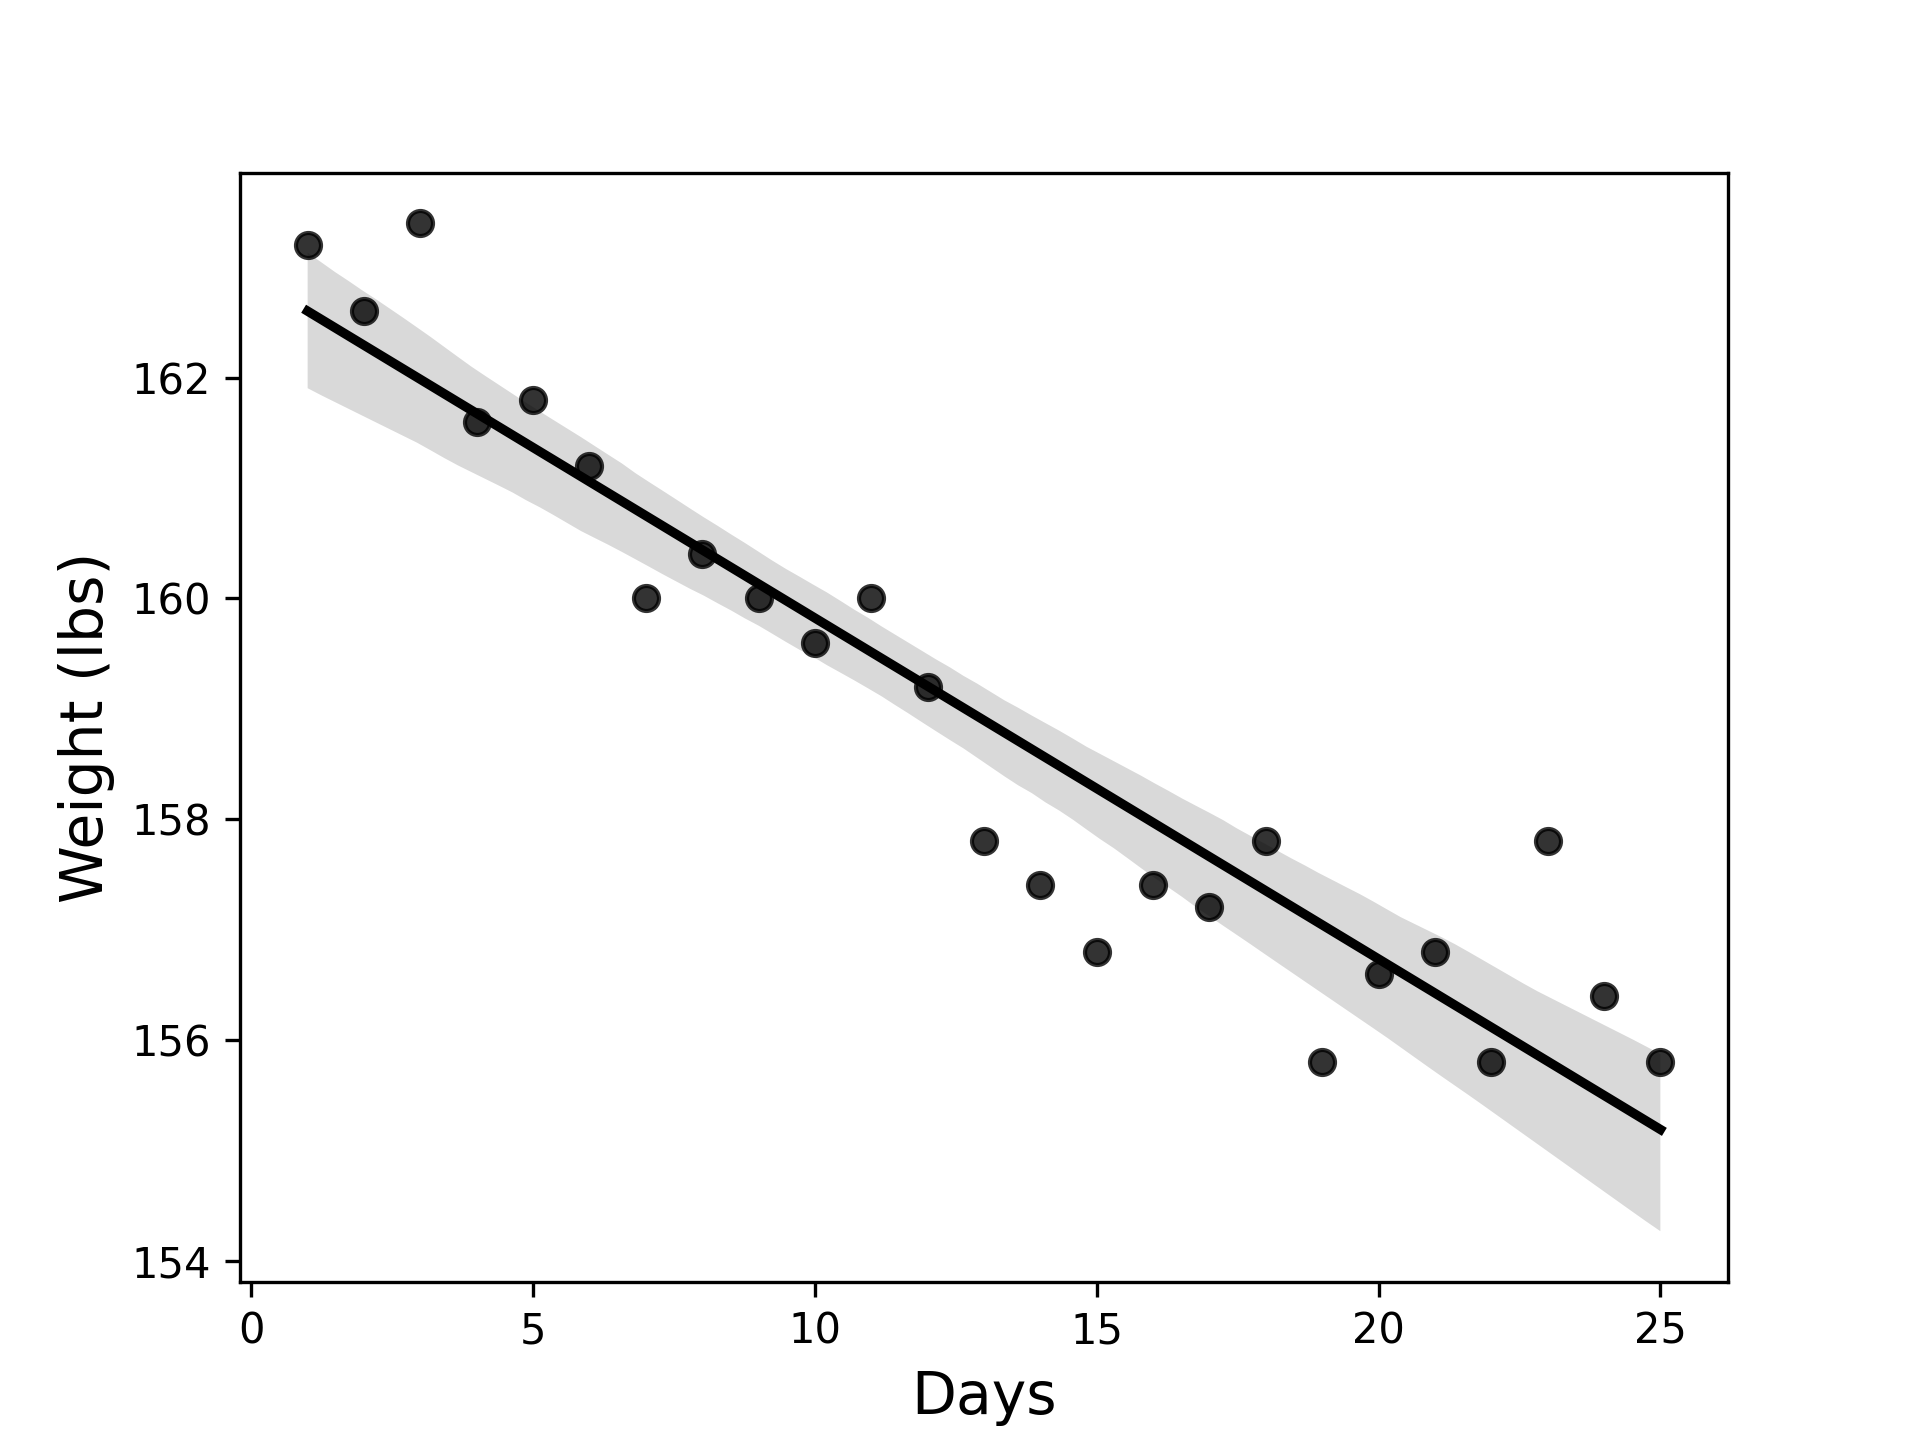
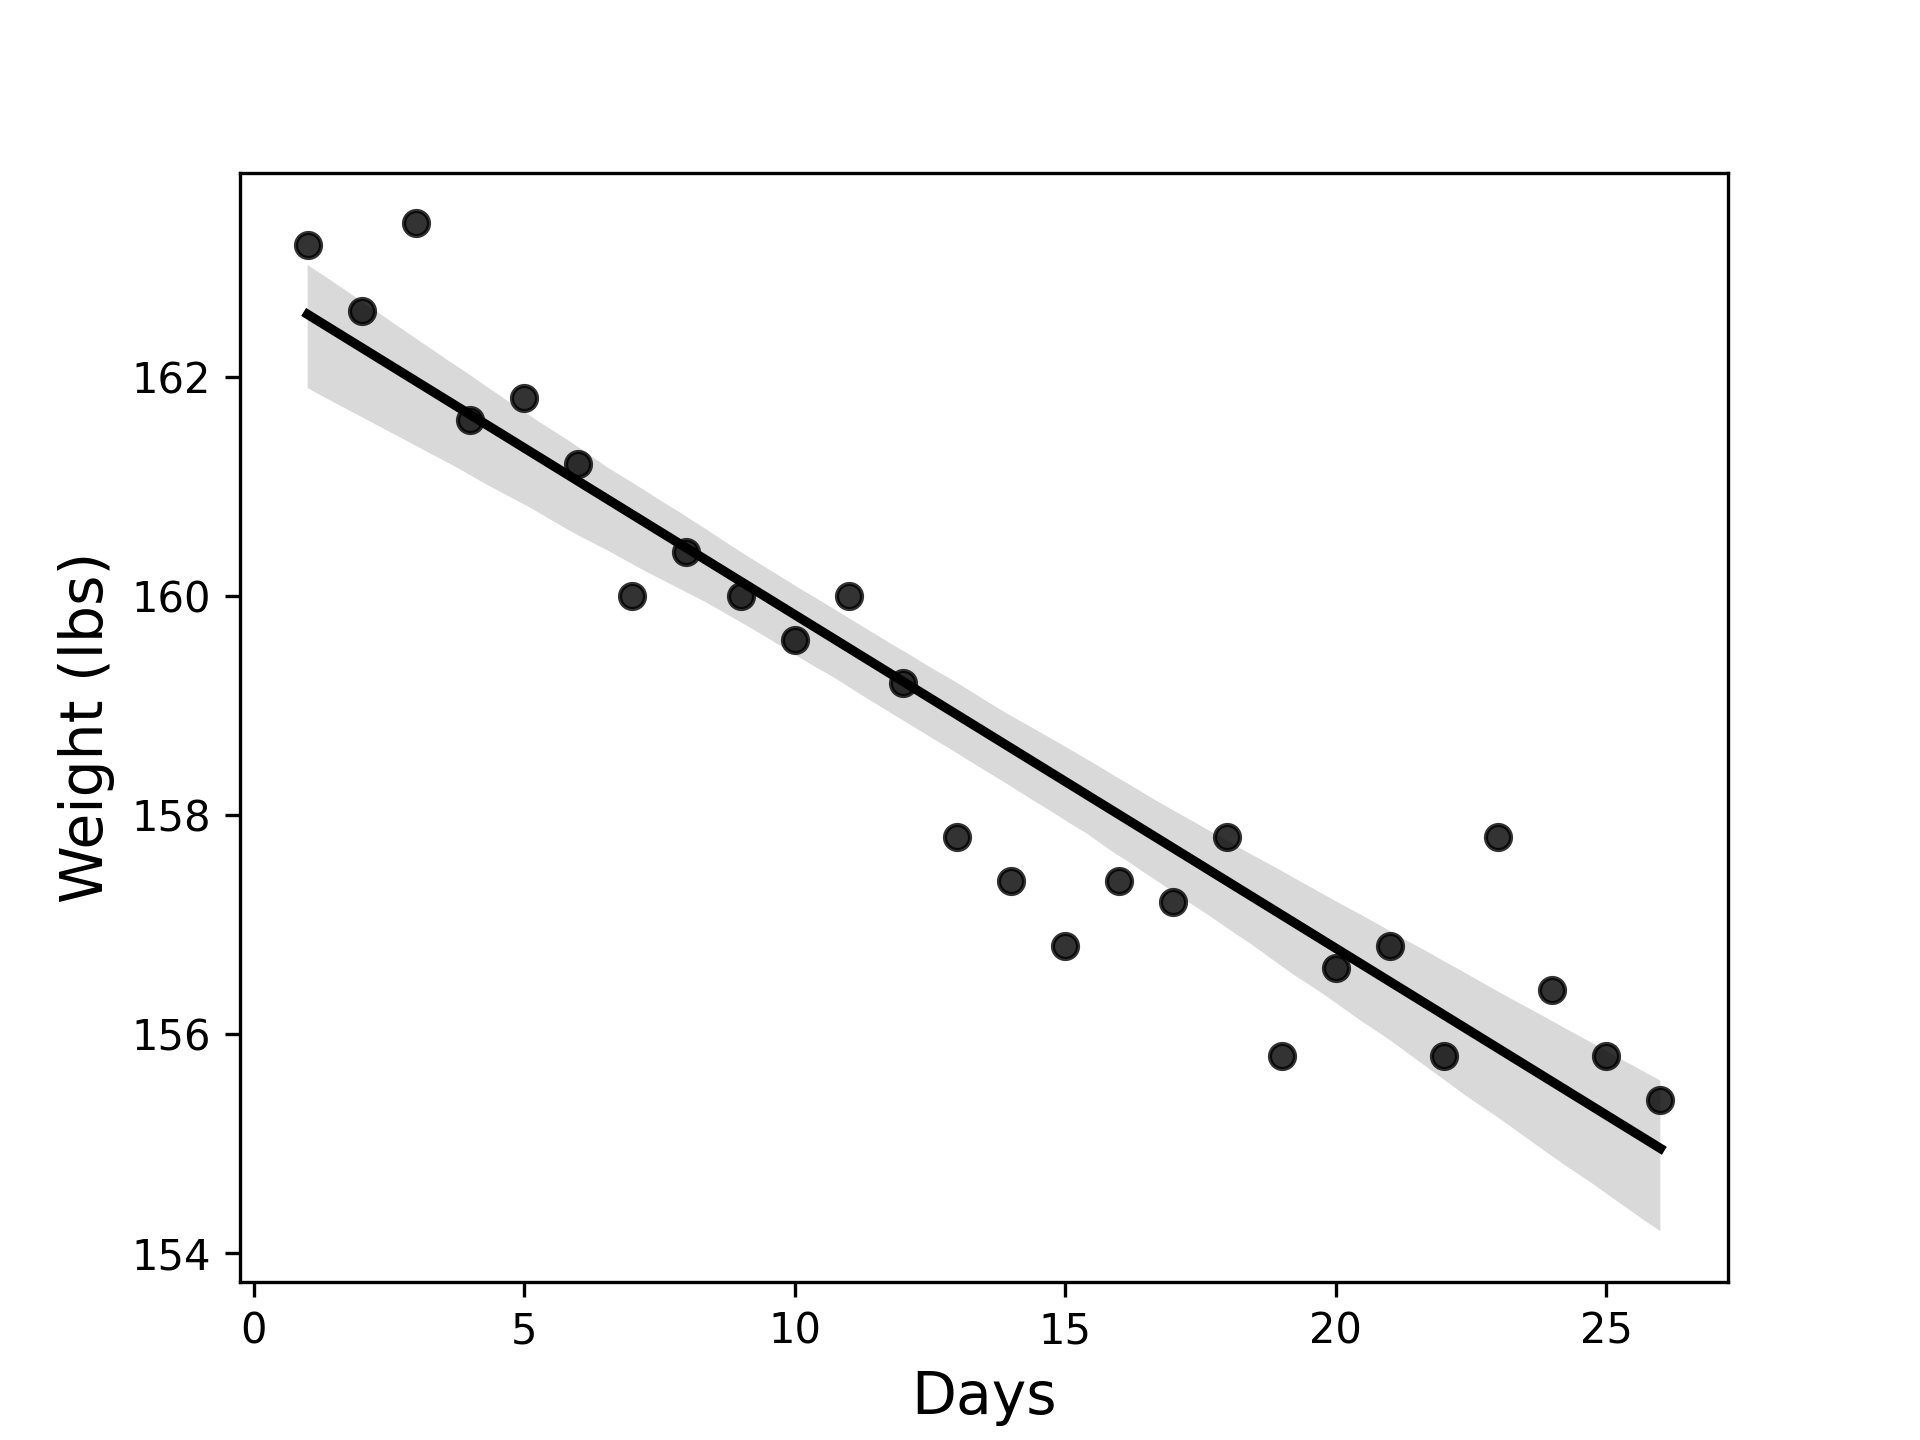
Updated weight.py and weight.png

diff --git a/Weight.py b/Weight.py
@@ -6,9 +6,9 @@ import seaborn as sns
 
 # Creates an array of elapsed days and assigns it to days_elapsed
 days_elapsed = np.array([1, 2, 3 ,4, 5, 6, 7, 8, 9, 10,11,12,13, 14,15,16,17,18,
-                         19, 20,21,22,23,24,25]).reshape(-1,1)
+                         19, 20,21,22,23,24,25,26]).reshape(-1,1)
 weight = np.array([163.2, 162.6, 163.4, 161.6, 161.8, 161.2, 160.0, 160.4, 160.0, 159.6,160.0,159.2,157.8, 157.4,156.8,157.4,
-                   157.2, 157.8,155.8, 156.6,156.8,155.8,157.8,156.4,155.8])
+                   157.2, 157.8,155.8, 156.6,156.8,155.8,157.8,156.4,155.8,155.4])
 
 # Instantiates a LinearRegression model and fits it to the above arrays
 model = sklearn.linear_model.LinearRegression().fit(days_elapsed,weight)
